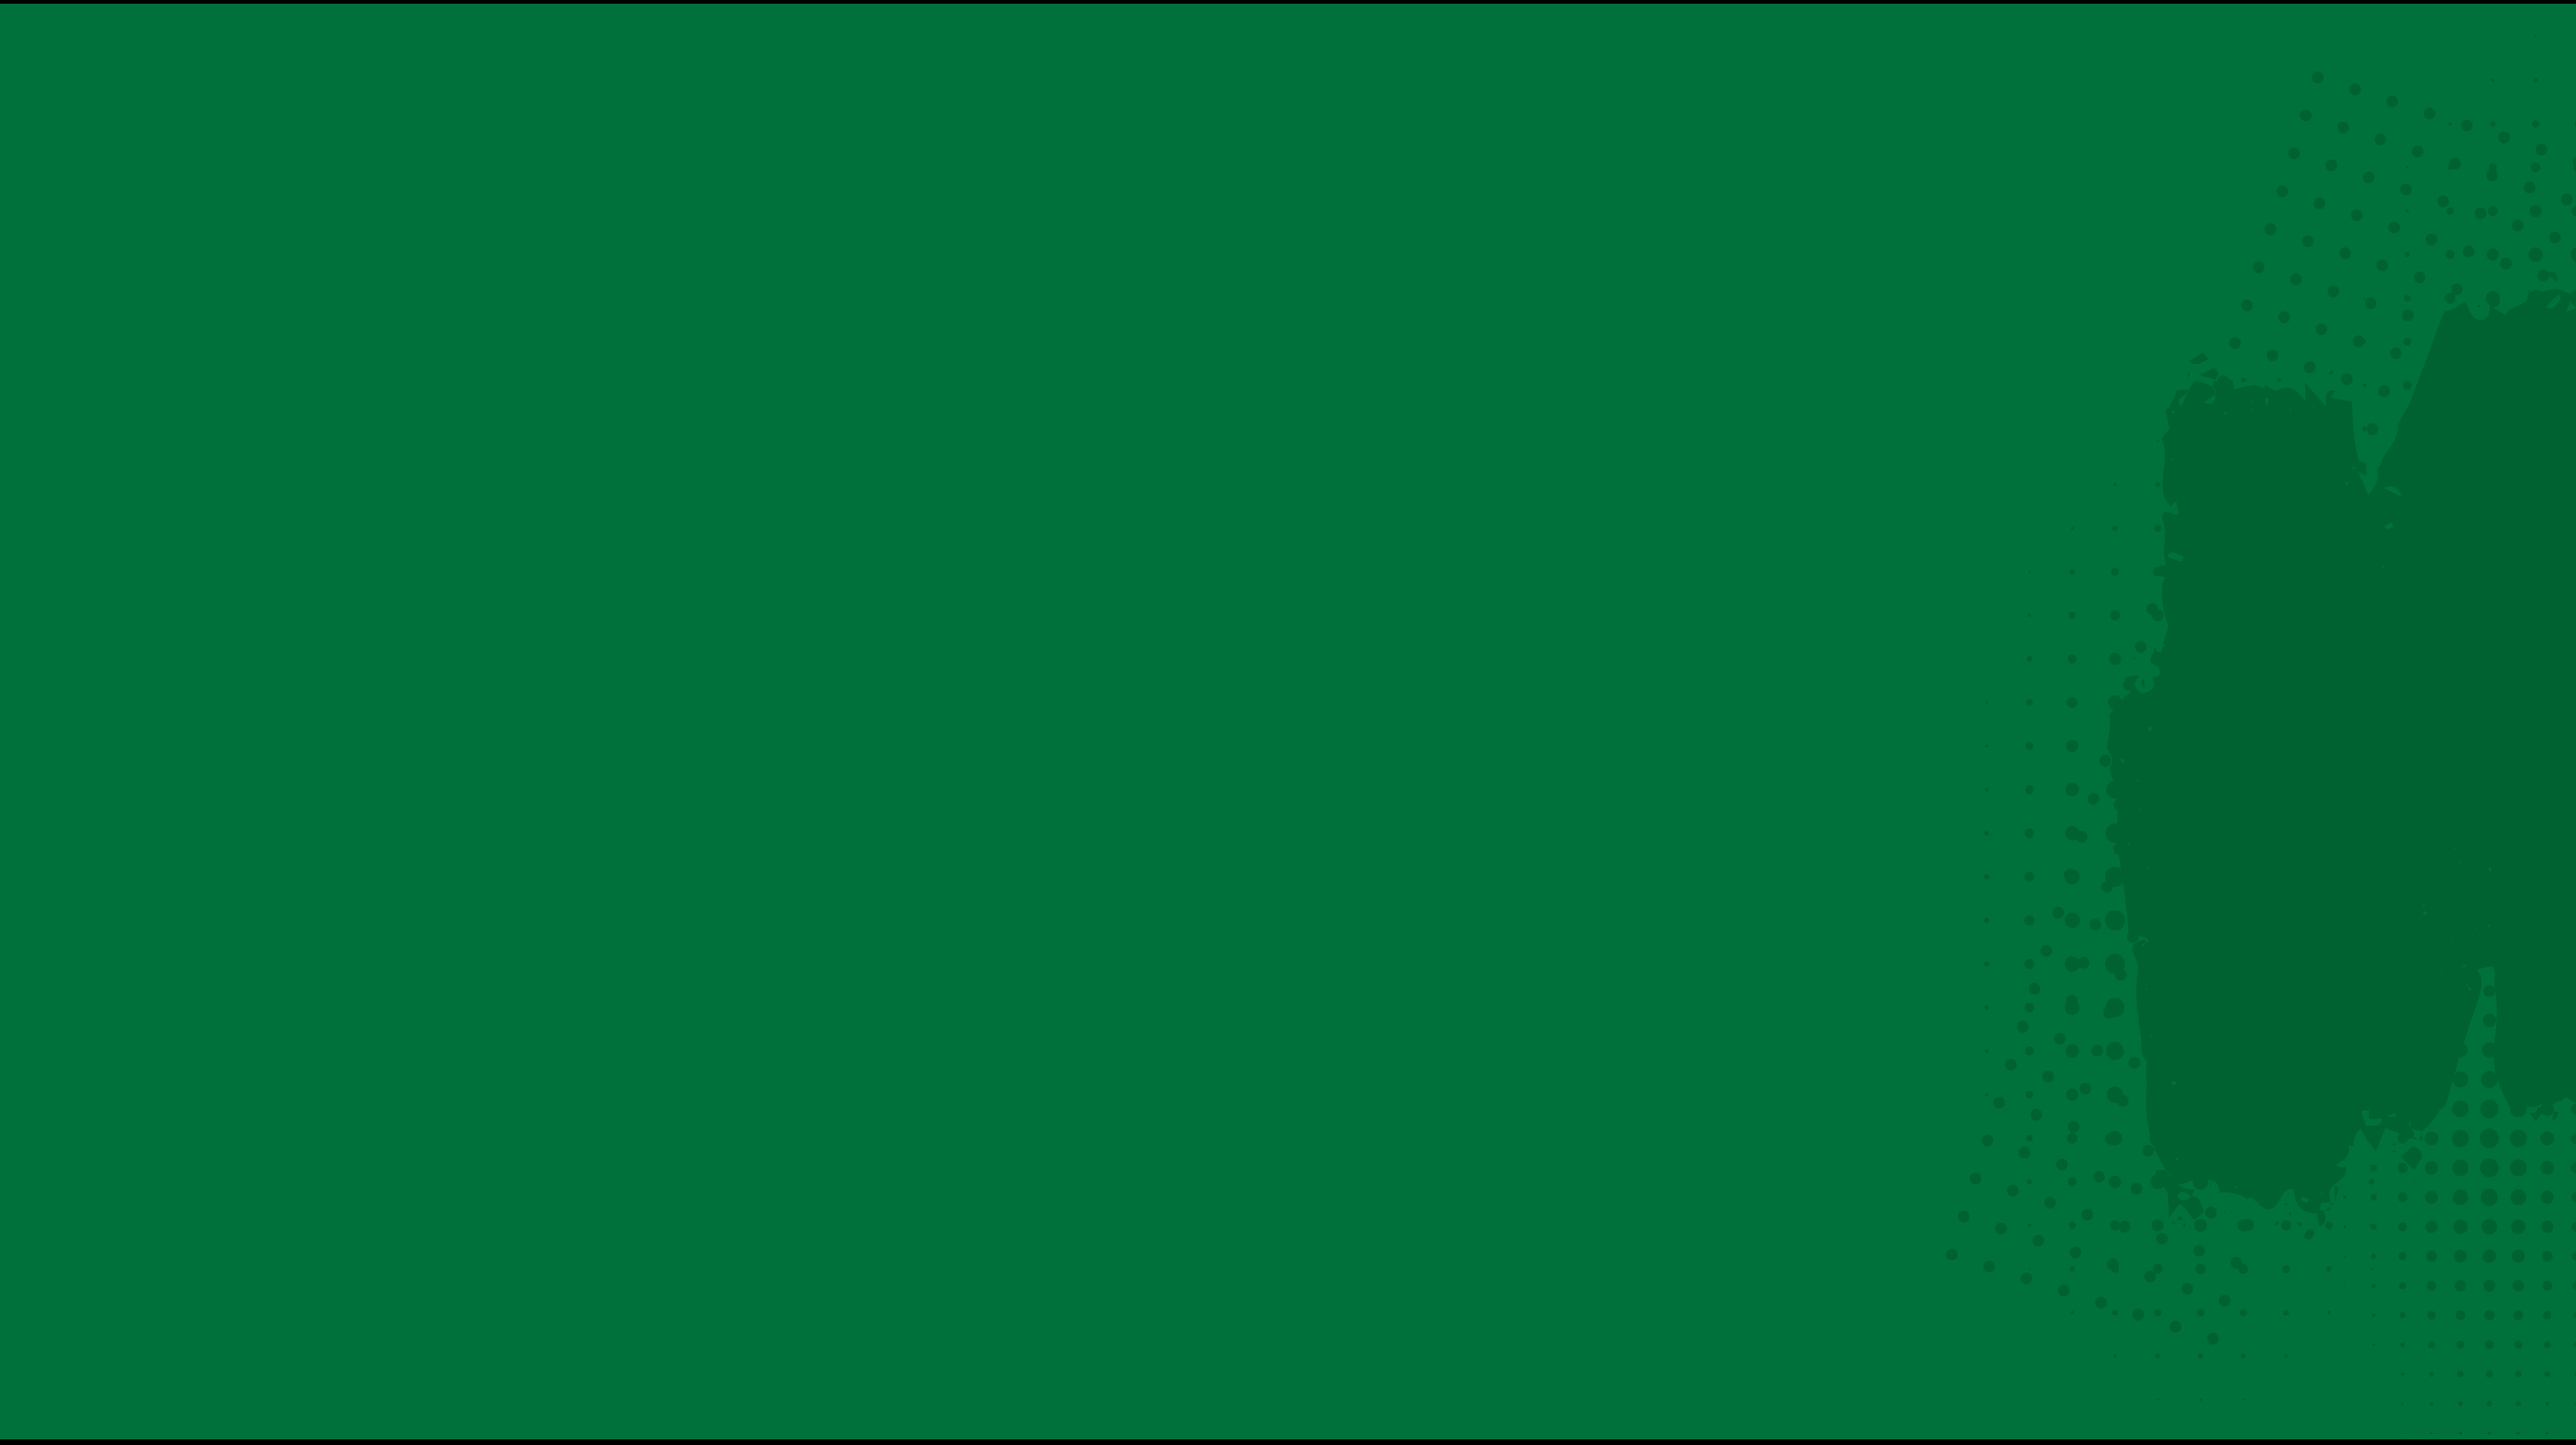
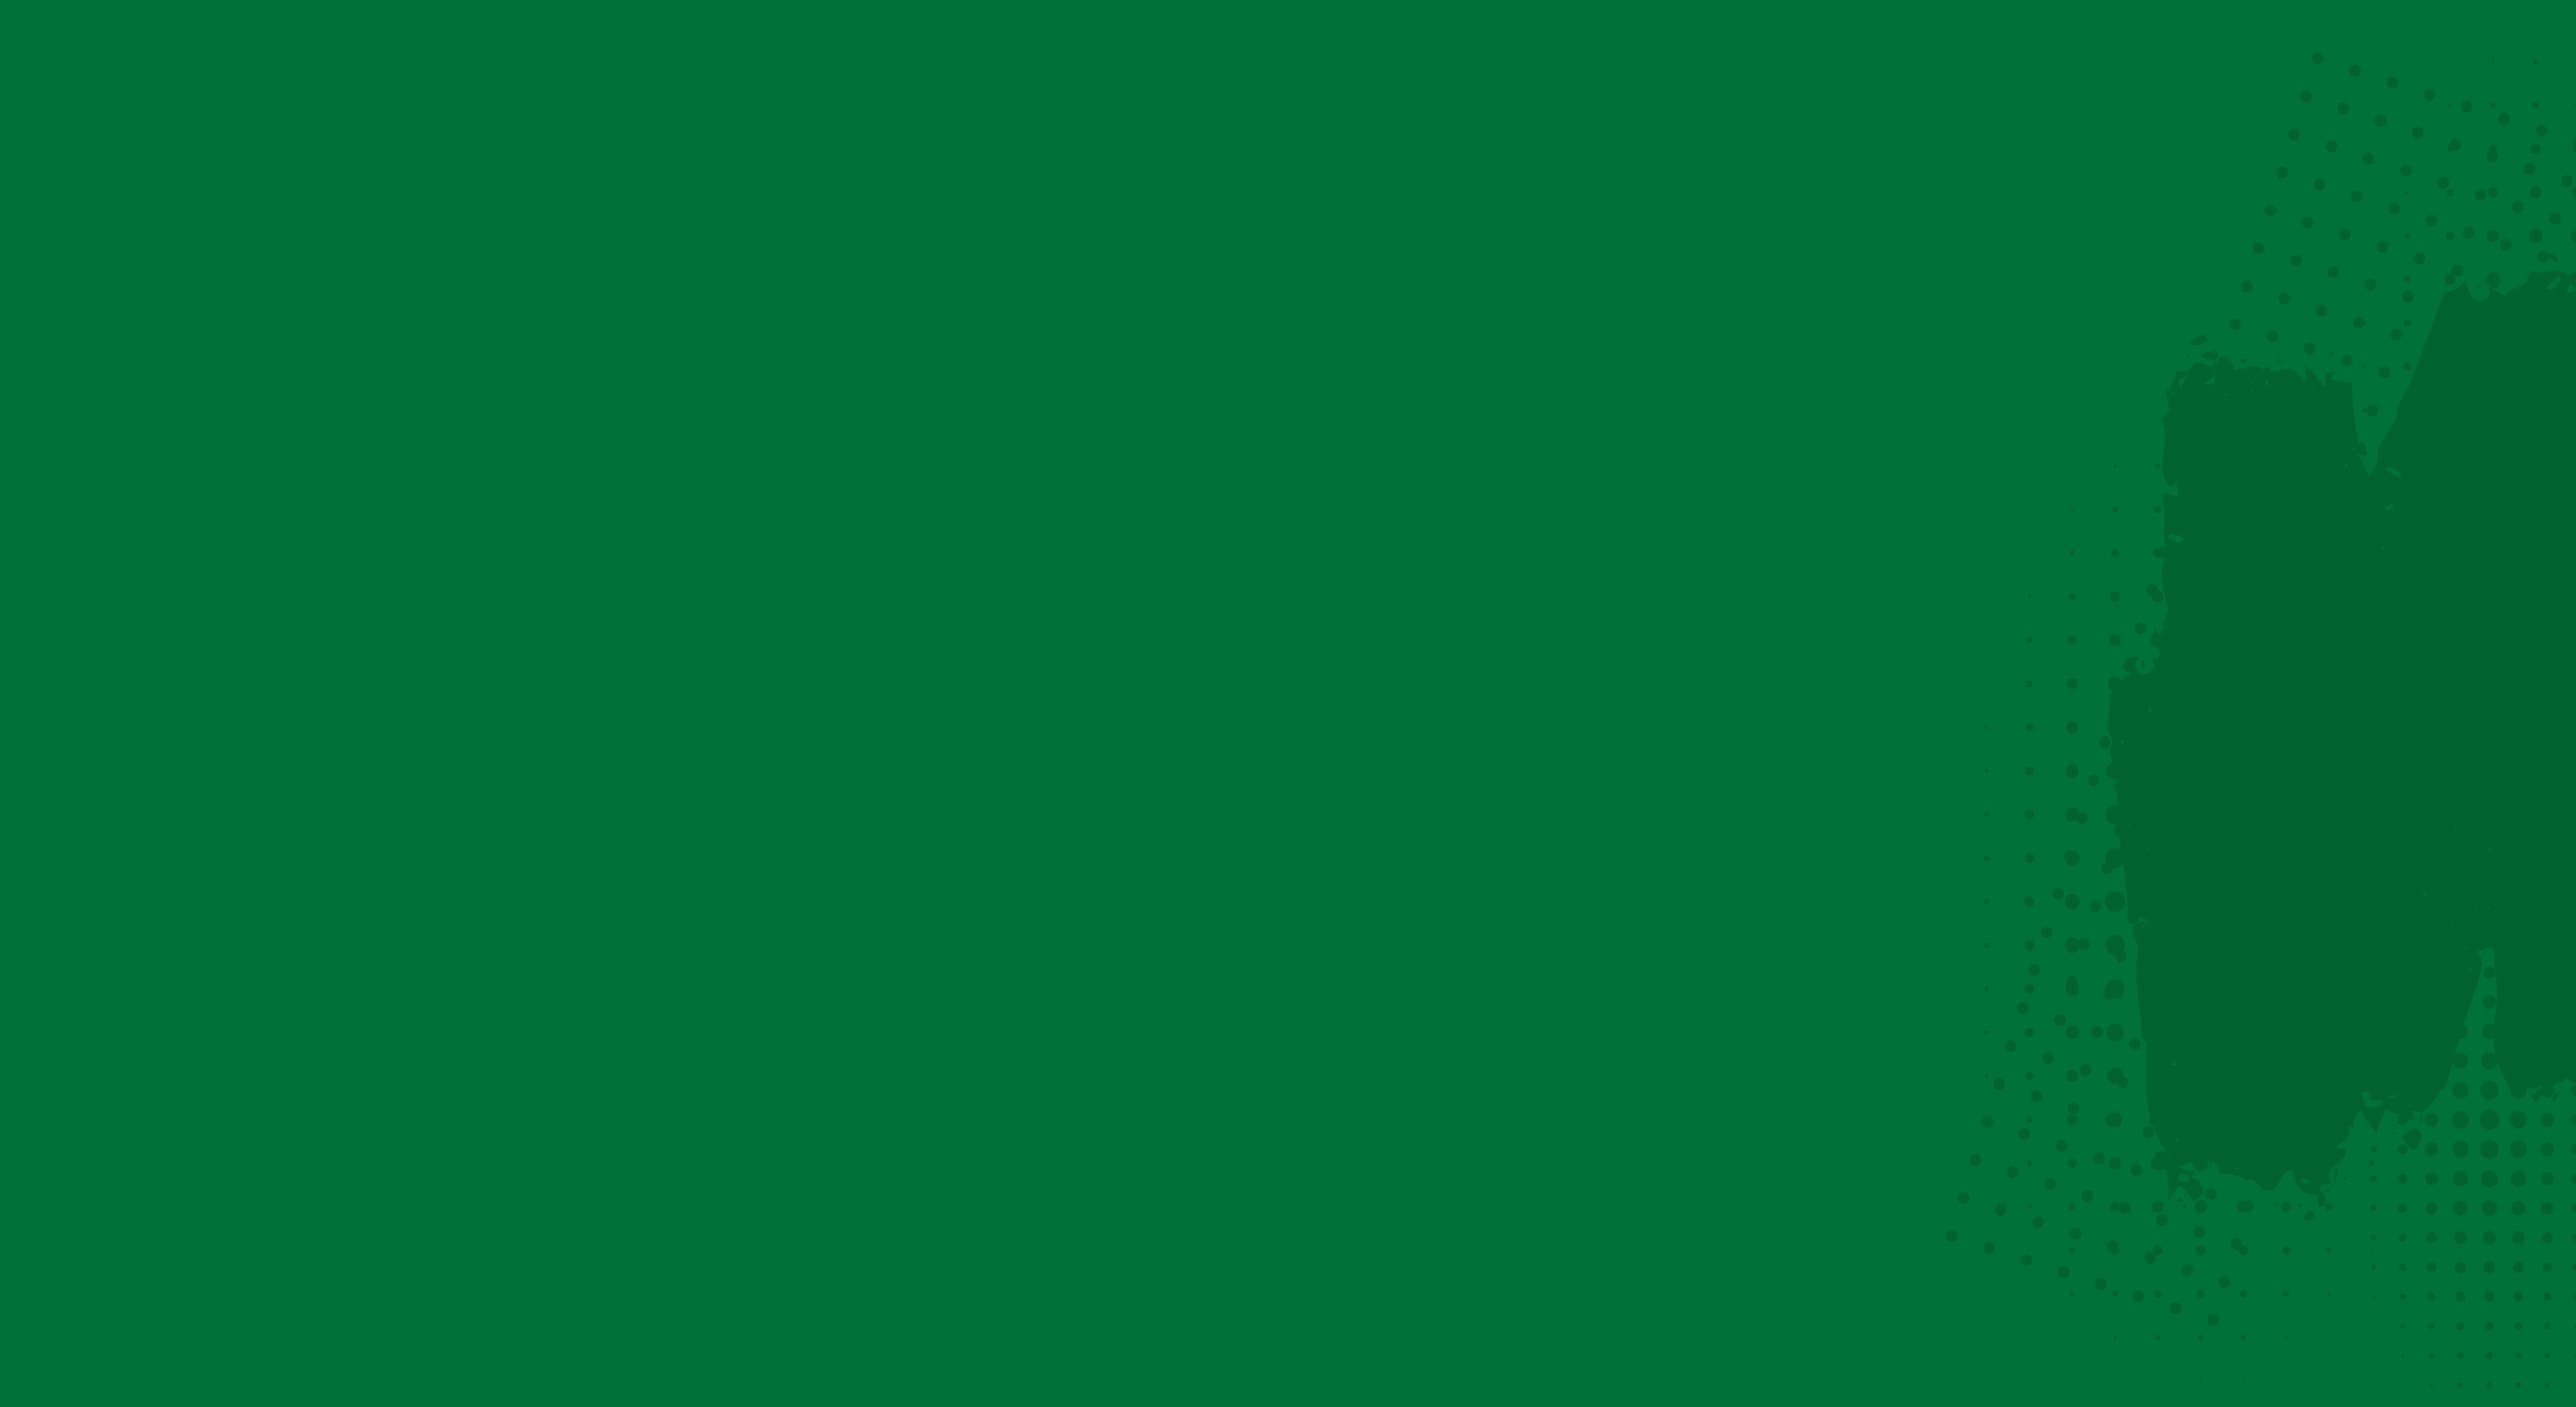
bew

Changed region(s): [[0.0, 0.9973, 1.0, 1.0]]

diff --git a/css/new.css b/css/new.css
@@ -111,9 +111,11 @@ a, button {
 }
 
 .bg-sec2 {
+    background-color: #00713a;
     background-image: url(../img/assets/secbg.png);
-    background-size: cover;
-    background-position: right center;
+    background-size: contain;
+    background-position: right;
+    background-repeat: no-repeat;
 }
 
 .flex-items {
@@ -206,6 +208,10 @@ a, button {
 }
 
 .bottom-border {
+    border-bottom: 5px solid black;
+}
+
+.top-border {
     border-bottom: 5px solid black;
 }
 
@@ -600,6 +606,12 @@ a, button {
 .shake {
     display: inline-block;
     animation: shake 3s ease-in-out infinite;
+    transition: all 0.3s ease-in-out;
+}
+
+.shake:hover {
+    scale: 1.1 !important;
+    transition: all 0.3s ease-in-out;
 }
 
 .buy-it {
@@ -609,7 +621,7 @@ a, button {
 
 .buy-it:hover {
     transition: all 0.3s ease-in-out;
-    transform: scale(1.1);
+    transform: scale(1.1) !important;
 }
 
 /* Initial hidden state for the falling image */
@@ -645,6 +657,12 @@ a, button {
 .rotate-it {
     display: inline-block;
     animation: rotate 3s linear infinite;
+    transition: all 0.3s ease;
+}
+
+.rotate-it:hover {
+    scale: 1.1 !important;
+    transition: all 0.3s ease;
 }
 
 @keyframes rotate {
@@ -669,6 +687,37 @@ a, button {
     }
 }
 
+.rnd {
+    position: relative;
+    min-height: auto !important;
+    /* height: calc(auto - 100px); */
+}
+
+.lp-road-map img {
+    width: 80%;
+    margin: auto;
+}
+
+/* Button Styles */
+.rollbtn {
+    width: max-content;
+}
+
+.lp-road-map {
+    margin: auto;
+    left: 0;
+    width: 100%;
+    text-align: center;
+    right: 0;
+    top: -100px;
+    position: relative;
+    z-index: 9;
+}
+
+.mbl-map {
+    display: none
+}
+
 @media (min-width: 1500px) {
 
     .flex-items {
@@ -680,6 +729,16 @@ a, button {
     .section-meet {
         padding-block: 80px;
 
+    }
+
+    .lp-road-map {
+        margin: auto;
+        left: 0;
+        width: 100%;
+        text-align: center;
+        right: 0;
+        top: -8vh;
+        position: relative;
     }
 
     .flex-items {
@@ -844,7 +903,7 @@ a, button {
 
 }
 
-@media (min-width:3200px) {
+@media (min-width:3100px) {
 
     .cig-sec .flex-smoke-h1 {
         font-size: 120px;
@@ -869,7 +928,7 @@ a, button {
     }
 
     .latkya {
-        width: 1000px;
+        width: 1200px;
     }
 
     .flex-item-new .lpr-btn img {
@@ -1017,7 +1076,31 @@ a, button {
 
 }
 
+@media (max-width:1000px) {
+    .mbl-map {
+        padding-bottom: 100px;
+        display: block
+    }
+
+    .mbl-map img {
+
+        width: 100%;
+    }
+
+    .lp-road-map {
+        display: none !important;
+    }
+}
+
 @media (max-width:768px) {
+    .bottom-border {
+        border-bottom: 3px solid black;
+    }
+
+    .top-border {
+        border-top: 3px solid black;
+    }
+
     .mbl-only {
         display: block;
         margin-top: 30px;
@@ -1068,6 +1151,7 @@ a, button {
 
     .bg-sec2 {
         background-position: center;
+        background-image: none !important;
     }
 
     .footer-area .flex-smoke-p {

diff --git a/new.html b/new.html
@@ -71,7 +71,7 @@
         <div class="main">
             <div class="top-banner relative">
                 <div class="section-width h-100a relative ">
-                    <button class="buy-leper shake">
+                    <button class="buy-leper buy-it  shake">
                         <img src="./img/assets/buy leper.png"
                              alt="">
                     </button>
@@ -91,7 +91,7 @@
                 </div>
             </div>
           
-            <div class="section-meet bg-sec2 relative sec-this">
+            <div class="section-meet bottom-border bg-sec2 relative sec-this">
                 <div class="sc-jCbFiK doJPrk newdog bot">
                     <div class="sc-cBYhjr laiDYB"
                          id="marquee">
@@ -492,7 +492,7 @@
                         <p class="leaper-scroll">$LEPER</p>
                     </div>
                 </div>
-                <div class="flex-items section-width">
+                <div class="flex-items section-width ">
                     <div class="flex-img"><img class="fall-in" src="./img/assets/polaroid.png"
                              alt=""></div>
                     <div class="flex-text">
@@ -1100,15 +1100,14 @@
                     </div>
                 </div>
             </div>
-            <div class="inner-head sc-kTYLvb header-content rnDid"
+            <div class="inner-head rnd sc-kTYLvb header-content rnDid"
                  id="ROADMAP">
-                <h2 class="sc-fQpRED gVVaaz"
-                    color="#FFAD02"
-                    margin="10px 0px 0px 0px"
-                    size="8.5">ROADMAP</h2>
-
-                <div class="sc-liquwA dIZGsB"
-                     widthscreen="1874"></div>
+              
+<div class="lp-road-map">
+    <img src="./img/assets/roadmap.png" alt="">
+</div>
+                <!-- <div class="sc-liquwA dIZGsB"
+                     widthscreen="1874"></div> -->
 
                 <div class="mbl-map"><img alt=""
                          src="./img/Map_Banner_Mobile.png" /></div>
@@ -1593,7 +1592,7 @@
                     </div>
                 </div>
             </div>
-            <div class="cig-sec relative">
+            <div class="cig-sec  bottom-border relative">
                 <div class="cloud"><img src="./img/assets/cloud.png"
                          alt=""></div>
                 <div class="flex-cont">
@@ -1602,7 +1601,7 @@
                         fancy hat using our tool. Don’t forget to
                         tag us on social media for your chance
                         to win some $LEPER.</h1>
-                    <button class="lpr-btn buy-it"><img src="./img/assets/try hat.png"
+                    <button class="lpr-btn buy-it rollbtn"><img src="./img/assets/try hat.png"
                              alt=""></button>
                 </div>
                 <div class="section-width">

diff --git a/css/style.css b/css/style.css
@@ -3056,7 +3056,7 @@
     background-size: contain;
     background-repeat: no-repeat;
     background-position: center 3px;
-    background-image: url(../img/map_with_content-bHsyYntk.png);
+    background-image: url(../img/assets/roadmap.png);
     --width_screen: 1874;
 }
 
@@ -4625,9 +4625,8 @@
     cursor: pointer;
 }
 
-.mbl-map {
-    display: none
-}
+
+
 
 /* .dex-btn {
     display: none;
@@ -4692,15 +4691,6 @@
         display: none !important;
     }
 
-    .mbl-map {
-        padding-bottom: 100px;
-        display: block
-    }
-
-    .mbl-map img {
-
-        width: 100%;
-    }
 
     .gBYeiM {
         padding-inline: 15px !important;

diff --git a/js/app.js b/js/app.js
@@ -84,9 +84,9 @@ window.onload = function () {
     const marquee2 = document.getElementById('marquee2');
     const marquee3 = document.getElementById('marquee3');
 
-    startMarquee(marquee1, 2); // Speed 1 for the first marquee
-    startMarquee(marquee2, 2); // Speed 2 for the second marquee
-    startMarquee(marquee3, 2); // Speed 2 for the second marquee
+    startMarquee(marquee1, 1); // Speed 1 for the first marquee
+    startMarquee(marquee2, 1); // Speed 2 for the second marquee
+    startMarquee(marquee3, 1); // Speed 2 for the second marquee
 };
 
 let toggleNav = () => {
